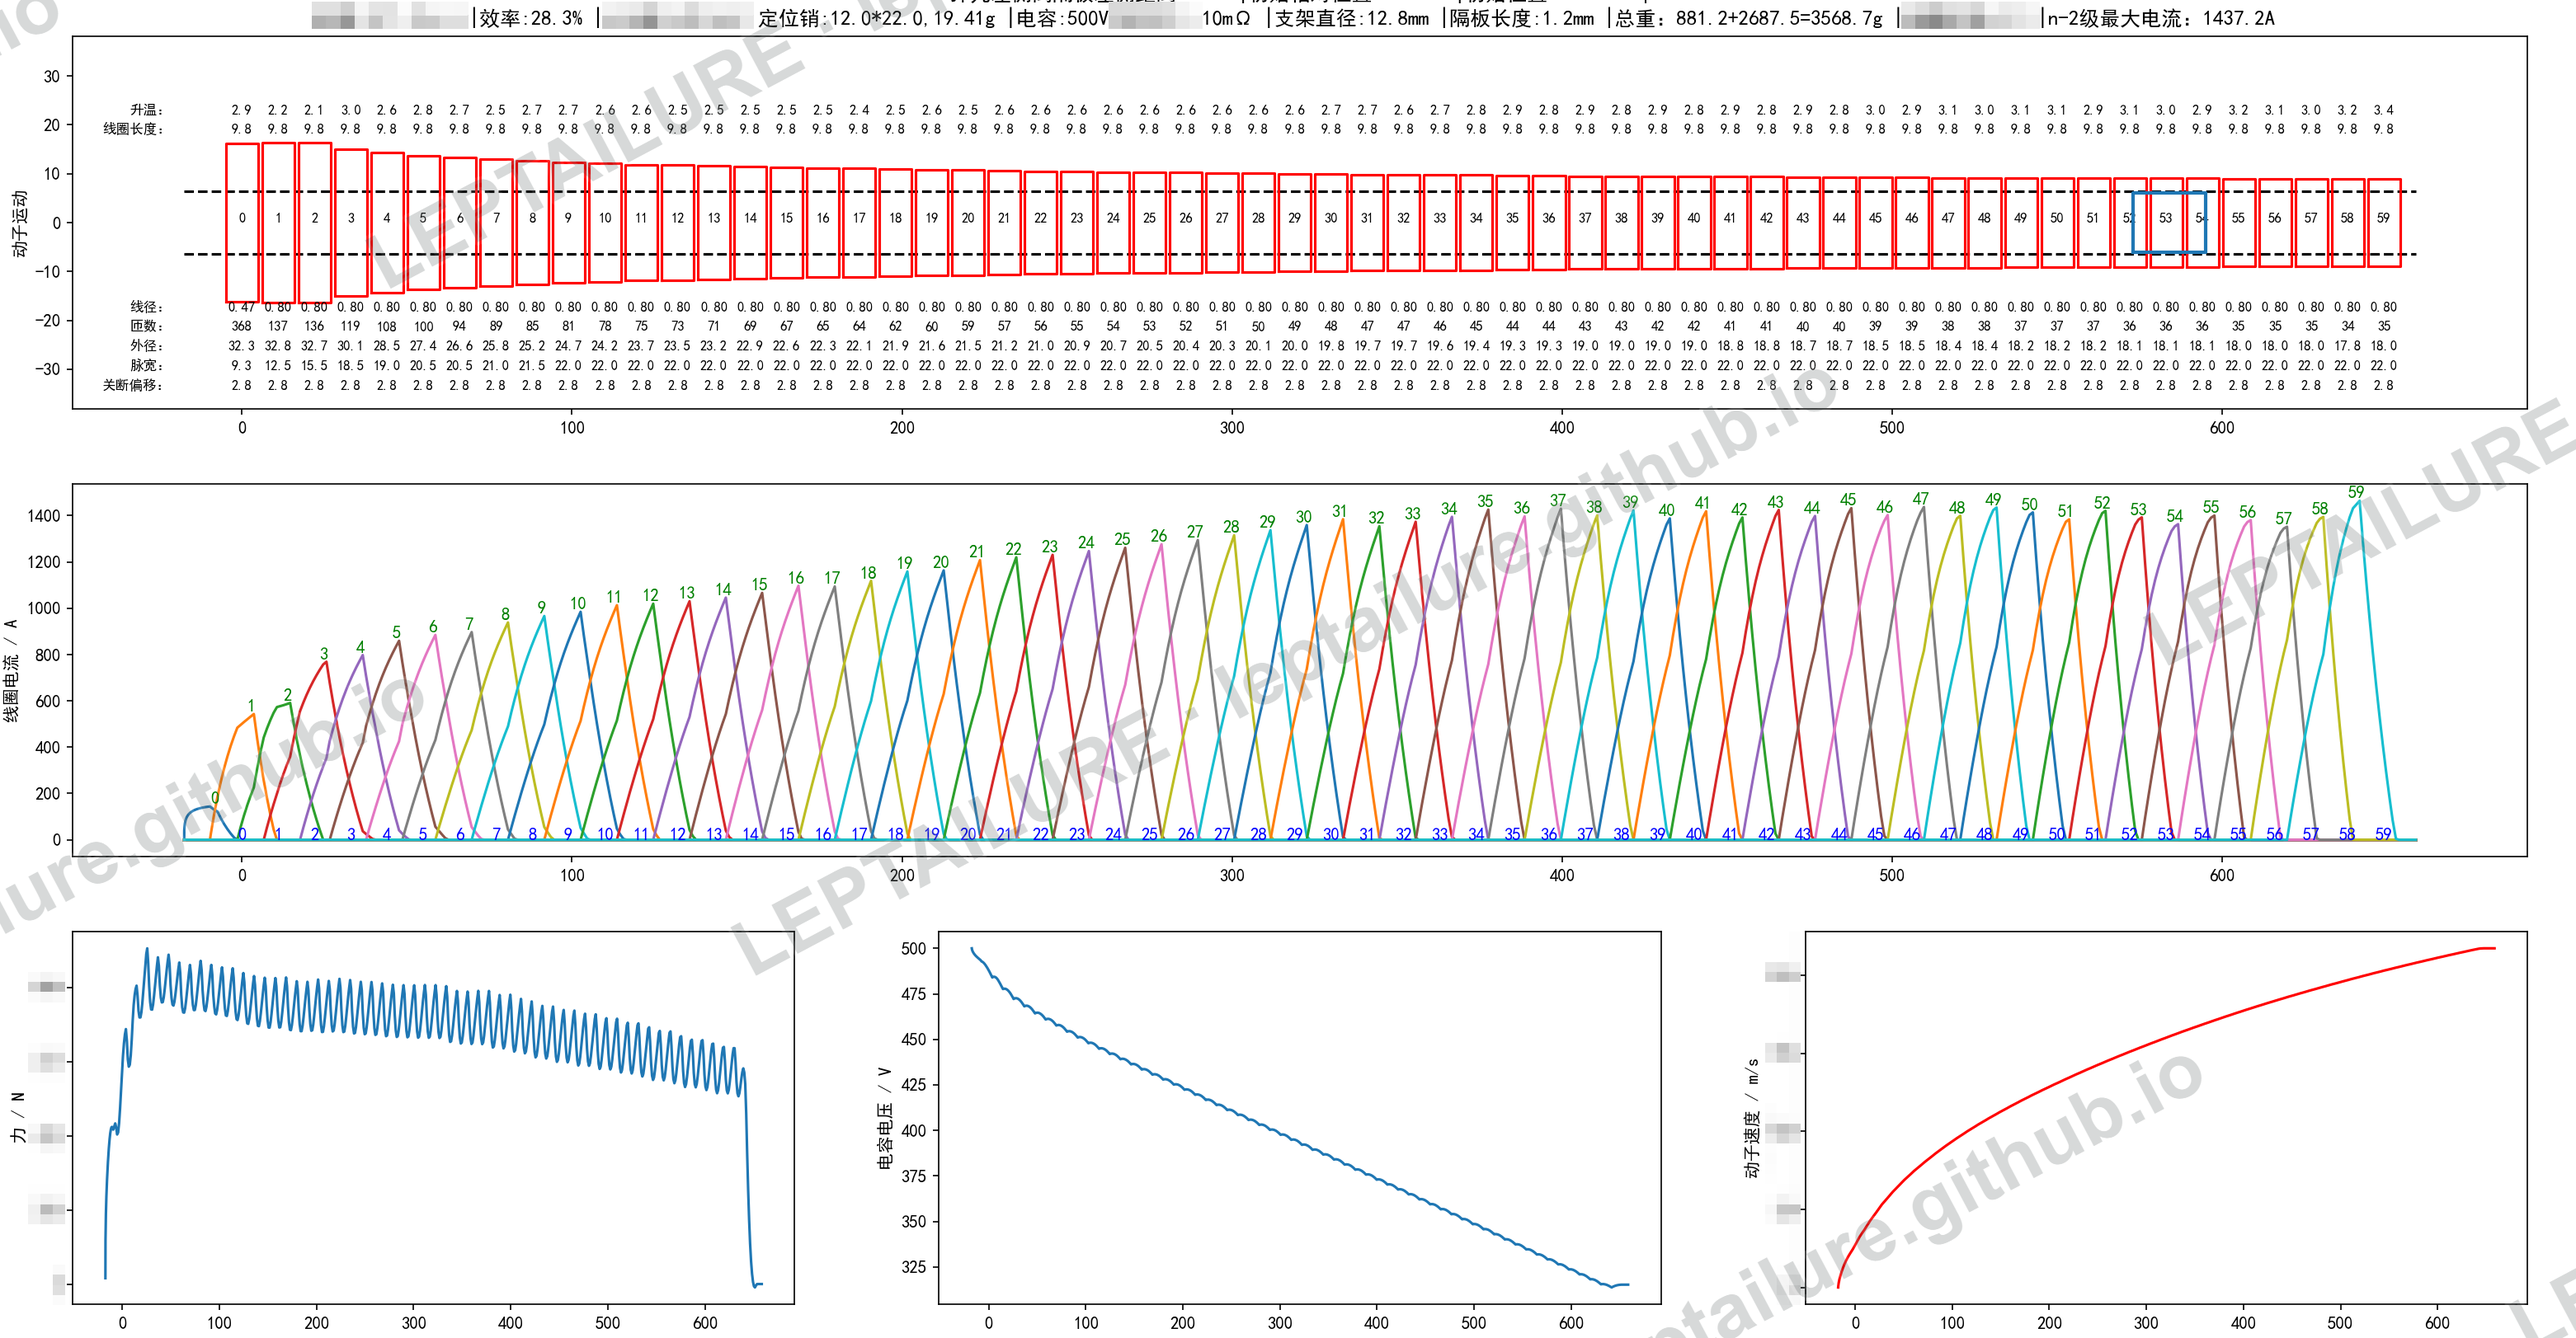
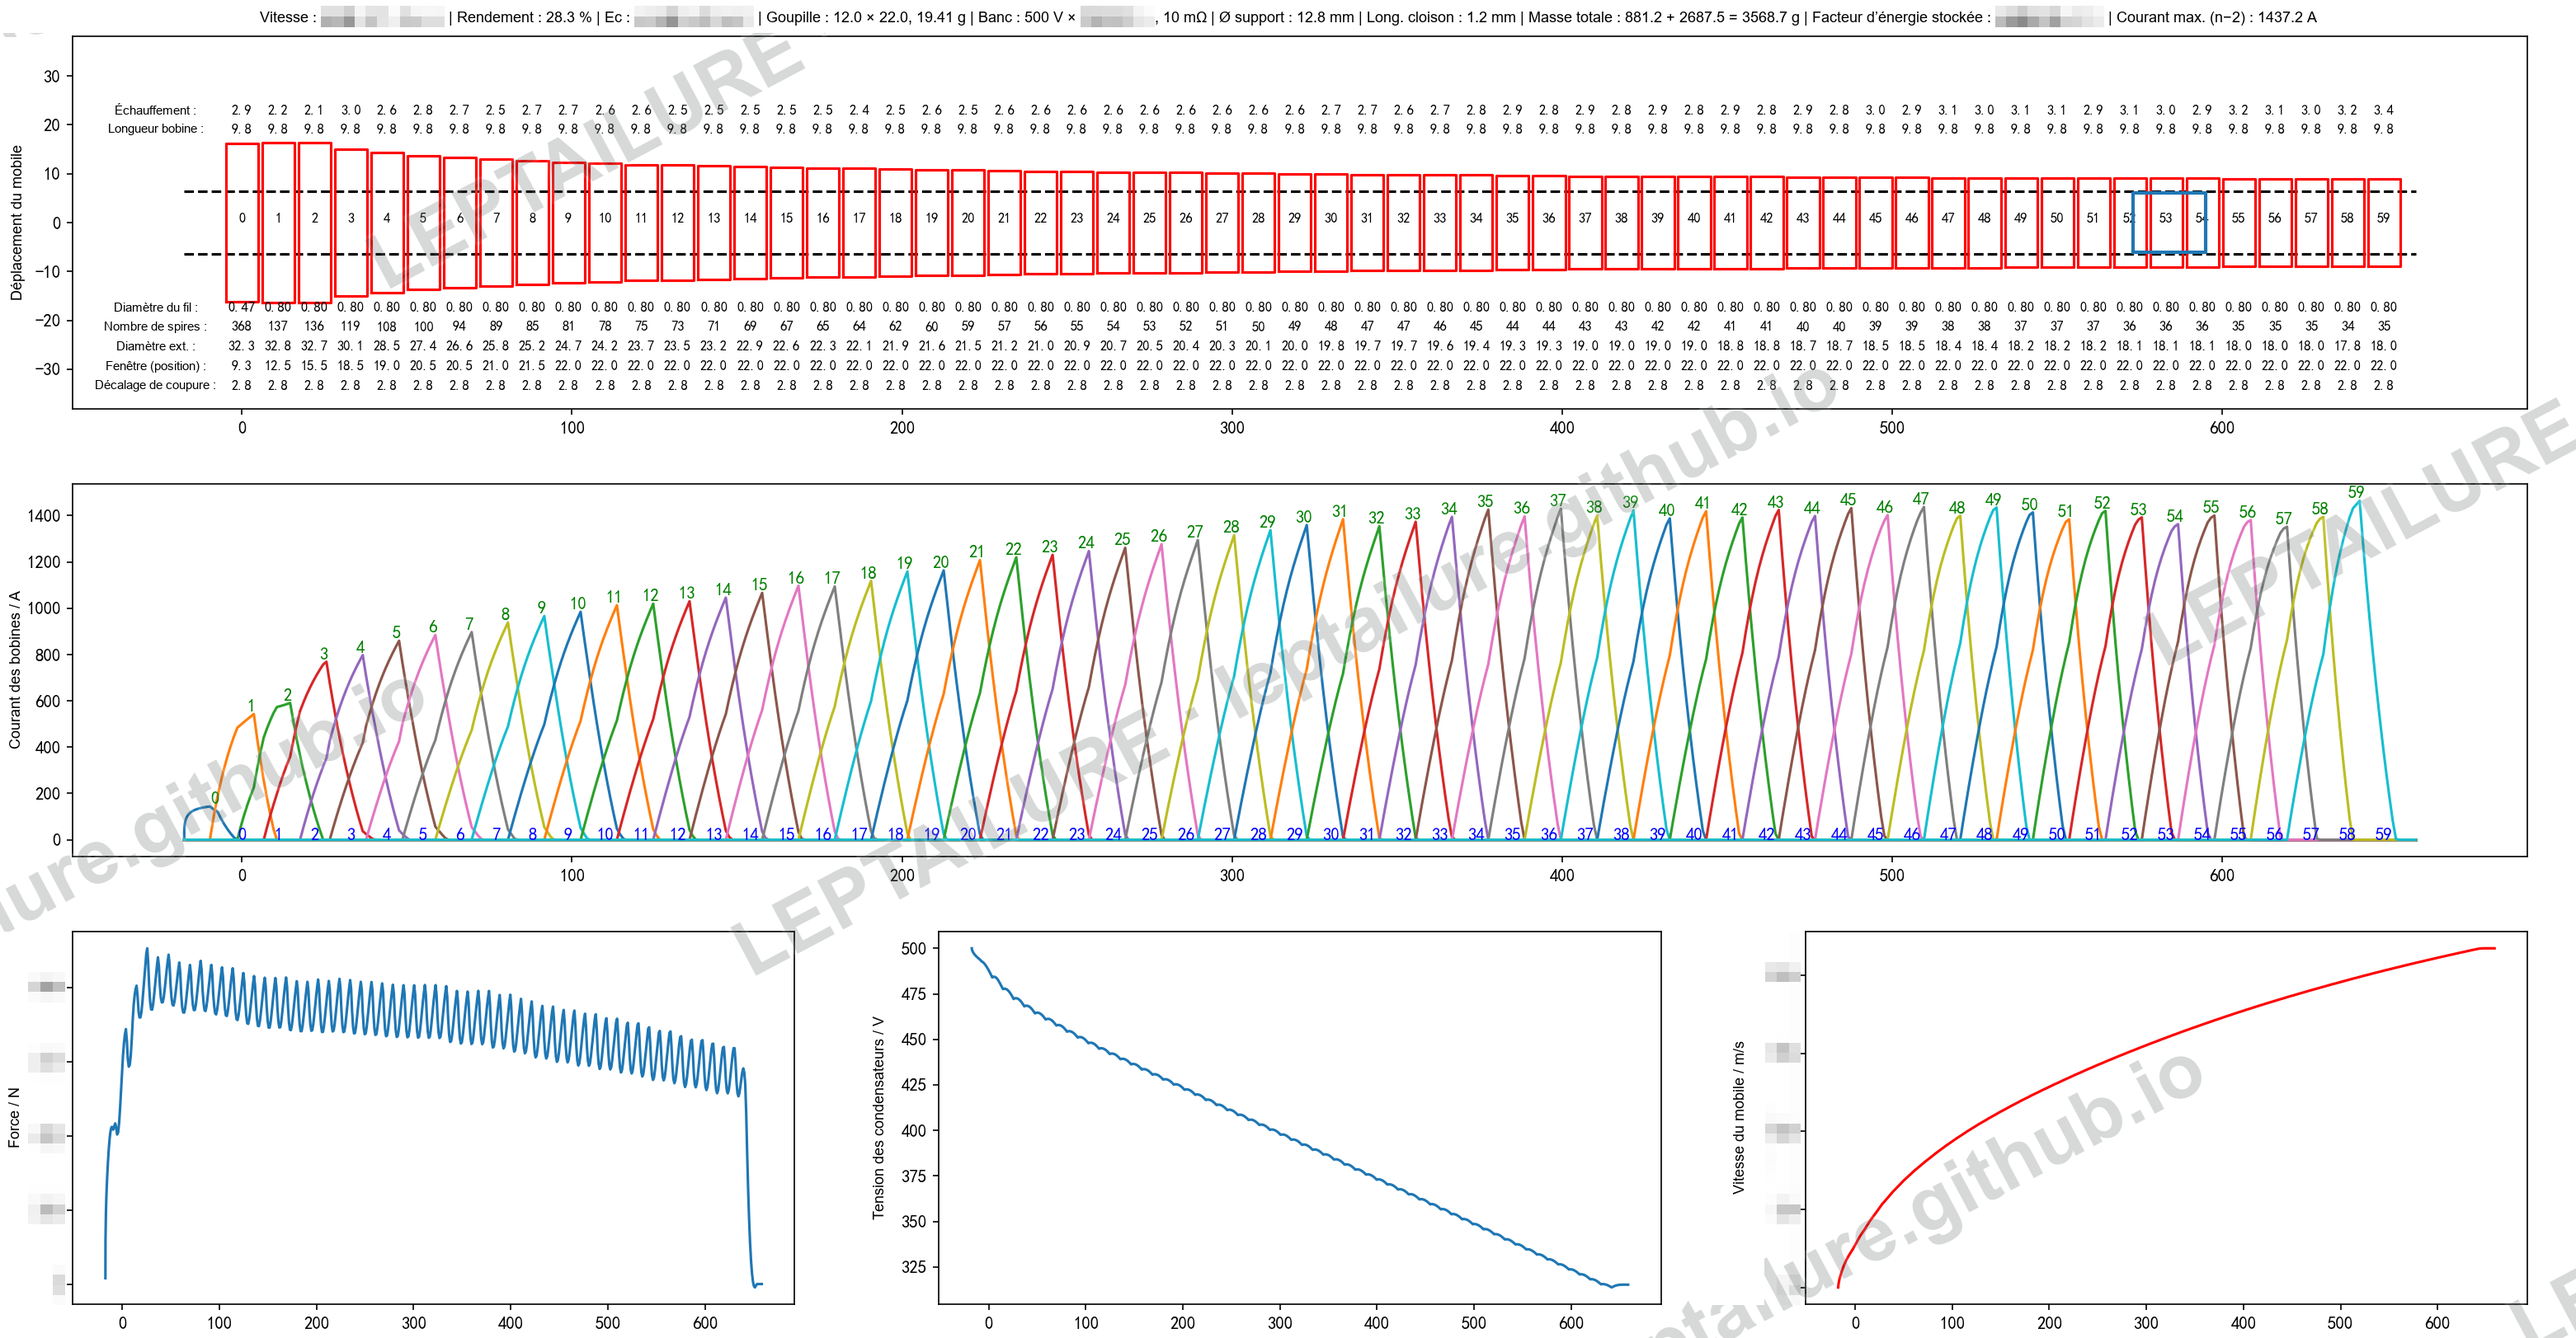
Translate simulator image labels into French and mosaic the Maxwell speed scale

diff --git a/projects/reluctance.html b/projects/reluctance.html
@@ -45,23 +45,23 @@
     <p>J’ai développé un simulateur en Python pour explorer rapidement les configurations du 26R1. Ce modèle est moins précis que l’étude par éléments finis sous Ansys Maxwell, mais ses calculs plus rapides permettent de comparer de nombreux essais dans une campagne d’optimisation.</p>
     <p>Un script utilisant Optuna explore près de vingt variables, notamment le diamètre extérieur initial des bobines, son évolution suivant les étages, le diamètre du fil et la largeur de la fenêtre de conduction exprimée en position. Cette dernière décrit une plage de déplacement du mobile, plutôt qu’une durée d’impulsion.</p>
     <figure class="python-figure">
-      <a href="reluctance-media/python-26r1-overview-public.png?v=python-mosaic-1" aria-label="Agrandir la capture du simulateur Python"><img src="reluctance-media/python-26r1-overview-public.png?v=python-mosaic-1" alt="Interface du simulateur Python avec les courants, la force, la tension des condensateurs et la vitesse ; graduations numériques de force et de vitesse et valeurs d’énergie masquées" width="3123" height="1623" decoding="async"></a>
+      <a href="reluctance-media/python-26r1-overview-public.png?v=python-fr-mosaic-2" aria-label="Agrandir la capture du simulateur Python"><img src="reluctance-media/python-26r1-overview-public.png?v=python-fr-mosaic-2" alt="Interface du simulateur Python avec les courants, la force, la tension des condensateurs et la vitesse ; graduations numériques de force et de vitesse et valeurs d’énergie masquées" width="3123" height="1623" decoding="async"></a>
       <figcaption>Vue du simulateur. Toutes les courbes sont conservées. Les graduations numériques des axes de force et de vitesse, ainsi que les valeurs de vitesse et d’énergie du résumé, sont masquées dans cette version publique.</figcaption>
     </figure>
     <h3>Comparer les compromis entre plusieurs indicateurs</h3>
     <p>L’outil rassemble l’énergie cinétique <var>E</var><sub>c</sub>, la vitesse, le courant maximal, la masse totale des bobines et les pertes totales dans les IGBT. Leur lecture conjointe permet de comparer les compromis entre les configurations.</p>
     <figure class="python-figure">
-      <a href="reluctance-media/python-26r1-optimization-public.png?v=python-mosaic-1" aria-label="Agrandir le nuage de points de la campagne Optuna"><img src="reluctance-media/python-26r1-optimization-public.png?v=python-mosaic-1" alt="Nuage de points comparant la masse des bobines et l’indicateur de pertes MosUseE, avec le rendement représenté en couleur" width="3818" height="1780" loading="lazy" decoding="async"></a>
+      <a href="reluctance-media/python-26r1-optimization-public.png?v=python-fr-mosaic-2" aria-label="Agrandir le nuage de points de la campagne Optuna"><img src="reluctance-media/python-26r1-optimization-public.png?v=python-fr-mosaic-2" alt="Nuage de points comparant la masse des bobines et l’indicateur de pertes MosUseE, avec le rendement représenté en couleur" width="3818" height="1780" loading="lazy" decoding="async"></a>
       <figcaption>Exploration des configurations. La masse des bobines et l’indicateur de pertes sont comparés, avec le rendement en couleur. « MosUseE (API raw) » désigne la valeur brute affichée par le simulateur.</figcaption>
     </figure>
     <figure class="python-figure python-trial">
-      <a href="reluctance-media/python-26r1-trial-public.png?v=python-mosaic-1" aria-label="Agrandir la fiche d’un essai Optuna"><img src="reluctance-media/python-26r1-trial-public.png?v=python-mosaic-1" alt="Détail d’un essai Optuna avec ses paramètres, le courant maximal, le rendement, la masse des bobines et l’indicateur de pertes ; valeur Ec masquée" width="795" height="968" loading="lazy" decoding="async"></a>
+      <a href="reluctance-media/python-26r1-trial-public.png?v=python-fr-mosaic-2" aria-label="Agrandir la fiche d’un essai Optuna"><img src="reluctance-media/python-26r1-trial-public.png?v=python-fr-mosaic-2" alt="Détail d’un essai Optuna avec ses paramètres, le courant maximal, le rendement, la masse des bobines et l’indicateur de pertes ; valeur Ec masquée" width="795" height="968" loading="lazy" decoding="async"></a>
       <figcaption>Détail d’un essai de la campagne d’optimisation. La valeur numérique de <var>E</var><sub>c</sub> est masquée.</figcaption>
     </figure>
     <p>Dans la comparaison de simulation avec le 25R1, la configuration retenue pour le 26R1 présente un courant de crête d’environ 1 400 A, contre environ 2 000 A précédemment, avec des pertes IGBT plus faibles et une énergie cinétique calculée plus élevée.</p>
     <p>Les essais ponctuels du composant IGBT ont atteint environ 2 800 A sur une impulsion de 400 µs. Cette observation expérimentale concerne le composant dans les conditions de cet essai ; les résultats d’optimisation présentés ici restent des résultats de simulation.</p>
     <figure class="python-figure">
-      <a href="reluctance-media/python-26r1-bank-current-public.png?v=python-mosaic-1" aria-label="Agrandir le courant simulé du banc de condensateurs"><img src="reluctance-media/python-26r1-bank-current-public.png?v=python-mosaic-1" alt="Capture du courant total du banc de condensateurs en fonction du temps, dans le simulateur Python" width="3140" height="341" loading="lazy" decoding="async"></a>
+      <a href="reluctance-media/python-26r1-bank-current-public.png?v=python-fr-mosaic-2" aria-label="Agrandir le courant simulé du banc de condensateurs"><img src="reluctance-media/python-26r1-bank-current-public.png?v=python-fr-mosaic-2" alt="Capture du courant total du banc de condensateurs en fonction du temps, dans le simulateur Python" width="3140" height="341" loading="lazy" decoding="async"></a>
       <figcaption>Capture du courant total du banc de condensateurs en fonction du temps. Ce tracé est distinct des courants individuels des bobines présentés dans la vue d’ensemble.</figcaption>
     </figure>
   </section>

diff --git a/projects/reluctance-25r1.html b/projects/reluctance-25r1.html
@@ -52,7 +52,7 @@
       <figcaption>Champ magnétique et déplacement du mobile dans le modèle 2D. Animation accélérée ×2.</figcaption>
     </figure>
     <figure class="simulation-figure">
-      <a href="reluctance-media/maxwell-25r1-results-public.png?v=simulation-1" aria-label="Agrandir les courbes de simulation"><img src="reluctance-media/maxwell-25r1-results-public.png?v=simulation-1" alt="Courants des bobines, force axiale et vitesse simulée en fonction du temps, avec les graduations numériques de vitesse masquées" width="3372" height="1383" loading="lazy" decoding="async"></a>
+      <a href="reluctance-media/maxwell-25r1-results-public.png?v=speed-mosaic-2" aria-label="Agrandir les courbes de simulation"><img src="reluctance-media/maxwell-25r1-results-public.png?v=speed-mosaic-2" alt="Courants des bobines, force axiale et vitesse simulée en fonction du temps, avec les graduations numériques de vitesse masquées" width="3372" height="1383" loading="lazy" decoding="async"></a>
       <figcaption>Résultats de simulation. Courants des bobines, force axiale et vitesse du mobile. Les graduations numériques de vitesse sont masquées dans cette version publique.</figcaption>
     </figure>
   </section>
